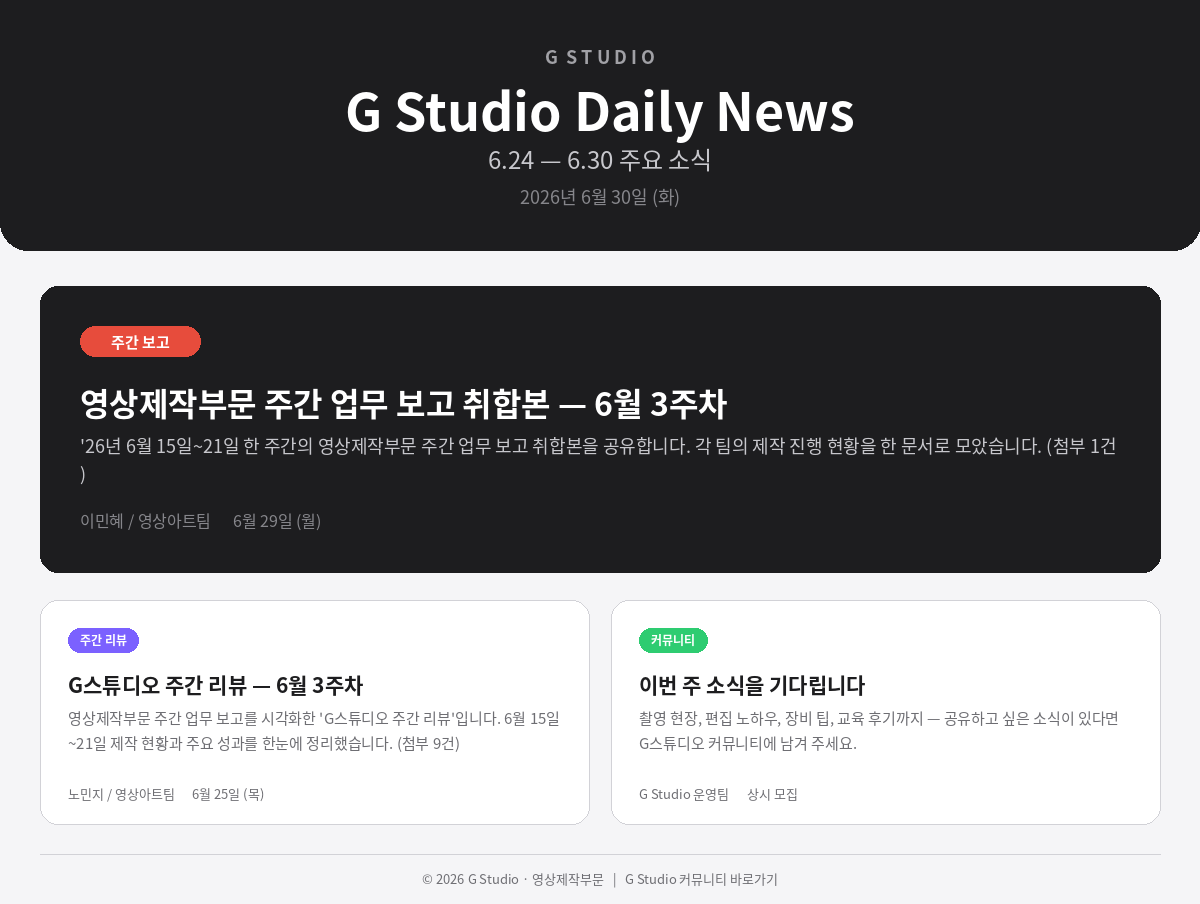
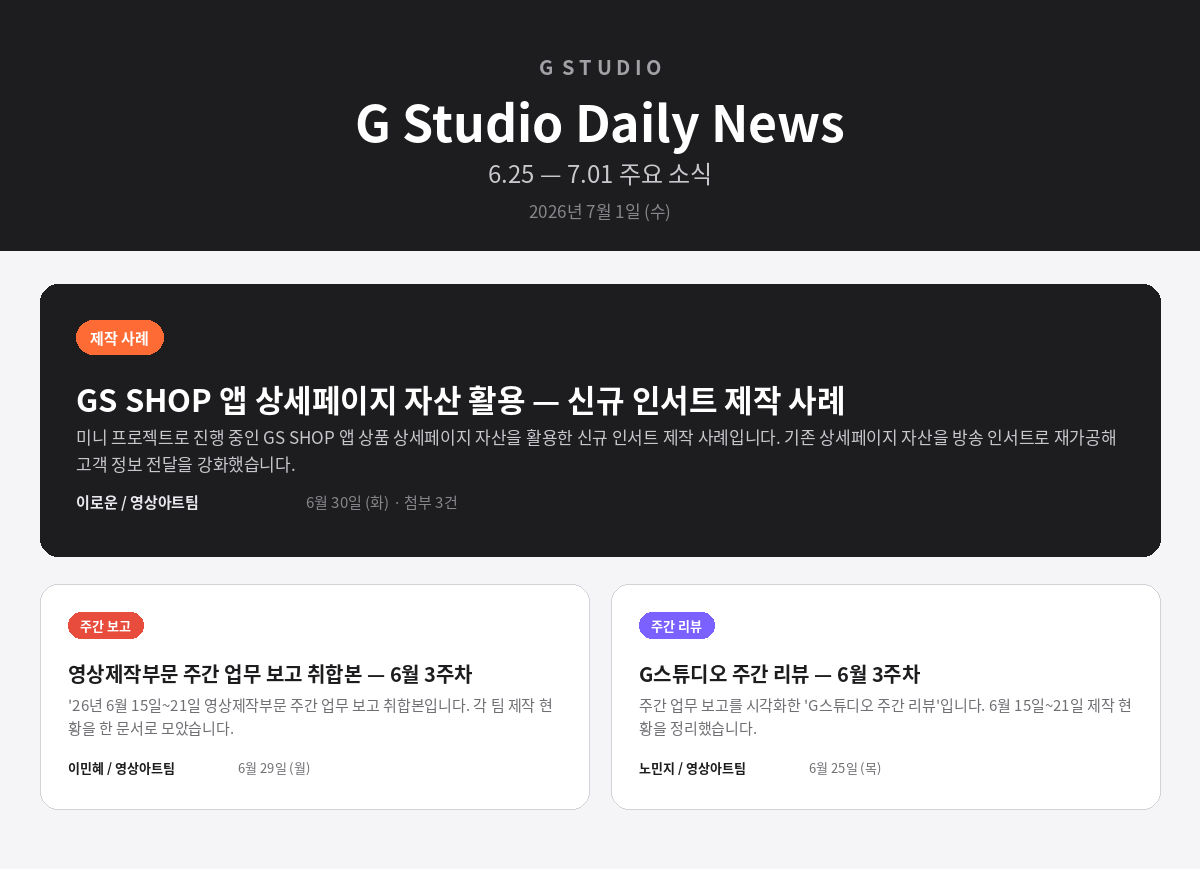
Daily News Update - 2026.07.01

diff --git a/index.html b/index.html
@@ -3,7 +3,7 @@
 <head>
 <meta charset="UTF-8">
 <meta name="viewport" content="width=device-width, initial-scale=1.0">
-<title>G Studio Daily News — 2026.06.30</title>
+<title>G Studio Daily News — 2026.07.01</title>
 <style>
   :root{
     --apple-bg:#FFFFFF;
@@ -116,24 +116,34 @@
   <div class="hero">
     <div class="hero-logo">G STUDIO</div>
     <div class="hero-title">G Studio <span class="accent">Daily News</span></div>
-    <div class="hero-sub">6.24 — 6.30 주요 소식</div>
-    <div class="hero-date">2026년 6월 30일 (화)</div>
+    <div class="hero-sub">6.25 — 7.01 주요 소식</div>
+    <div class="hero-date">2026년 7월 1일 (수)</div>
   </div>
 
   <div class="wrap">
     <!-- Featured -->
-    <a class="featured" href="https://engage.cloud.microsoft/main/org/gsretail.com/threads/eyJfdHlwZSI6IlRocmVhZCIsImlkIjoiMzkyMTMwOTg4MTA0MDg5NiJ9" target="_blank" rel="noopener">
-      <span class="badge" style="background:#E74C3C;">주간 보고</span>
-      <h2>영상제작부문 주간 업무 보고 취합본 — 6월 3주차</h2>
-      <p>'26년 6월 15일~21일 한 주간의 영상제작부문 주간 업무 보고 취합본을 공유합니다. 각 팀의 제작 진행 현황을 한 문서로 모았습니다. (첨부 1건 · 20260615-0621 영상제작부문 주간업무.pptx)</p>
+    <a class="featured" href="https://engage.cloud.microsoft/main/org/gsretail.com/threads/eyJfdHlwZSI6IlRocmVhZCIsImlkIjoiMzkyMzExNTQxODQxMTAwOCJ9" target="_blank" rel="noopener">
+      <span class="badge" style="background:#FF6B35;">제작 사례</span>
+      <h2>GS SHOP 앱 상세페이지 자산 활용 — 신규 인서트 제작 사례</h2>
+      <p>미니 프로젝트로 진행 중인 GS SHOP 앱 내 상품 상세페이지 자산을 활용한 신규 인서트 제작 사례를 공유합니다. 기존 상세페이지 자산을 방송 인서트로 재가공해 고객 정보 전달을 강화한 선제안 사례입니다. (#선제안 #고객정보전달강화 · 첨부 3건)</p>
       <div class="meta">
-        <span class="author">이민혜 / 영상아트팀</span>
-        <span>6월 29일 (월)</span>
+        <span class="author">이로운 / 영상아트팀</span>
+        <span>6월 30일 (화)</span>
       </div>
     </a>
 
     <!-- Grid -->
     <div class="grid">
+      <a class="card" href="https://engage.cloud.microsoft/main/org/gsretail.com/threads/eyJfdHlwZSI6IlRocmVhZCIsImlkIjoiMzkyMTMwOTg4MTA0MDg5NiJ9" target="_blank" rel="noopener">
+        <span class="badge" style="background:#E74C3C;">주간 보고</span>
+        <h3>영상제작부문 주간 업무 보고 취합본 — 6월 3주차</h3>
+        <p>'26년 6월 15일~21일 한 주간의 영상제작부문 주간 업무 보고 취합본입니다. 각 팀의 제작 진행 현황을 한 문서로 모았습니다. (첨부 1건)</p>
+        <div class="meta">
+          <span class="author">이민혜 / 영상아트팀</span>
+          <span>6월 29일 (월)</span>
+        </div>
+      </a>
+
       <a class="card" href="https://engage.cloud.microsoft/main/org/gsretail.com/threads/eyJfdHlwZSI6IlRocmVhZCIsImlkIjoiMzkxNTY0OTkwMTYzMzUzNiJ9" target="_blank" rel="noopener">
         <span class="badge" style="background:#7B61FF;">주간 리뷰</span>
         <h3>G스튜디오 주간 리뷰 — 6월 3주차</h3>
@@ -141,16 +151,6 @@
         <div class="meta">
           <span class="author">노민지 / 영상아트팀</span>
           <span>6월 25일 (목)</span>
-        </div>
-      </a>
-
-      <a class="card" href="https://engage.cloud.microsoft/main/org/gsretail.com/groups/eyJfdHlwZSI6Ikdyb3VwIiwiaWQiOiIxNzYxODQ3NDU5ODQifQ/all" target="_blank" rel="noopener">
-        <span class="badge" style="background:#2ECC71;">커뮤니티</span>
-        <h3>이번 주 소식을 기다립니다 ✍</h3>
-        <p>촬영 현장, 편집 노하우, 장비 팁, 교육 후기까지 — 공유하고 싶은 소식이 있다면 G스튜디오 커뮤니티에 남겨 주세요. 다음 데일리 뉴스에 함께 전해드립니다.</p>
-        <div class="meta">
-          <span class="author">G Studio 운영팀</span>
-          <span>상시 모집</span>
         </div>
       </a>
     </div>
